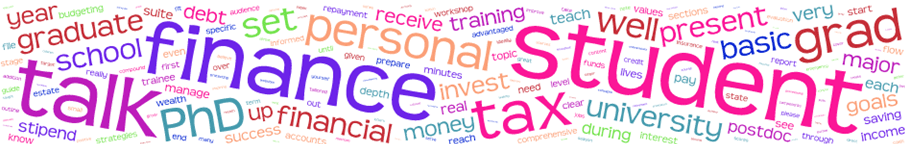
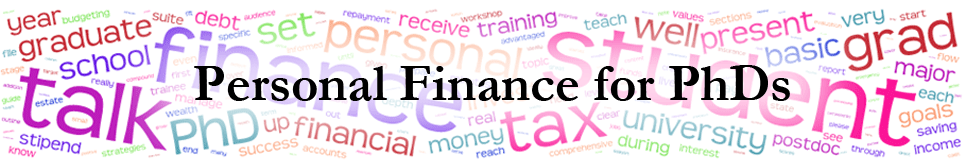
Made header stretch across entire page. Updated header. Made sidebar scroll with page. Fixed button to show sidebar and be included on the header.

diff --git a/style.css b/style.css
@@ -883,7 +883,7 @@ a:focus {
 }
 
 .secondary-toggle {
-	background-color: transparent;
+	background-color: white;
 	border: 1px solid #eaeaea;
 	border: 1px solid rgba(51, 51, 51, 0.1);
 	height: 42px;
@@ -908,7 +908,7 @@ a:focus {
 
 .secondary-toggle:hover,
 .secondary-toggle:focus {
-	background-color: transparent;
+	background-color: white;
 	border: 1px solid #c1c1c1;
 	border: 1px solid rgba(51, 51, 51, 0.3);
 	outline: 0;
@@ -3900,7 +3900,7 @@ p > video {
 		position: fixed;
 		top: 0;
 		left: 0;
-		width: 29.4118%;
+		width: 20.001%;
 		z-index: 0; /* Fixes flashing bug with scrolling on Safari */
 	}
 
@@ -3914,7 +3914,7 @@ p > video {
 		margin-right: -100%;
 		max-width: 413px;
 		position: relative;
-		width: 29.4118%;
+		width: 20.001%;
 	}
 
 	.secondary {
@@ -3931,8 +3931,8 @@ p > video {
 	.site-content {
 		display: block;
 		float: left;
-		margin-left: 29.4118%;
-		width: 70.5882%;
+		margin-left: 20.001%;
+		width: 79.999%;
 	}
 
 	body {
@@ -4180,8 +4180,8 @@ p > video {
 	}
 
 	.widget {
-		font-size: 12px;
-		font-size: 1.2rem;
+		font-size: 15px;
+		font-size: 1.5rem;
 		margin: 0 0 20%;
 		padding: 0 20%;
 	}
@@ -5748,6 +5748,7 @@ p > video {
     /*padding: 5.0000%;*/
     position:relative;
     overflow:hidden;
+    background: white;
 }
 
 .header-img{

diff --git a/js/functions.js b/js/functions.js
@@ -29,7 +29,7 @@
 			return;
 		}
 
-		button = $( '.site-branding' ).find( '.secondary-toggle' );
+		button = $( '.header' ).find( '.secondary-toggle' );
 		if ( ! button ) {
 			return;
 		}
@@ -78,7 +78,7 @@
 					$sidebar.attr( 'style', 'top: ' + topOffset + 'px;' );
 				} else if ( ! bottom && windowPos + windowHeight > sidebarHeight + $sidebar.offset().top && sidebarHeight + adminbarOffset < bodyHeight ) {
 					bottom = true;
-					$sidebar.attr( 'style', 'position: fixed; bottom: 0;' );
+					/*$sidebar.attr( 'style', 'position: fixed; bottom: 0;' );*/
 				}
 			} else if ( windowPos < lastWindowPos ) {
 				if ( bottom ) {
@@ -87,7 +87,7 @@
 					$sidebar.attr( 'style', 'top: ' + topOffset + 'px;' );
 				} else if ( ! top && windowPos + adminbarOffset < $sidebar.offset().top ) {
 					top = true;
-					$sidebar.attr( 'style', 'position: fixed;' );
+					/*$sidebar.attr( 'style', 'position: fixed;' );*/
 				}
 			} else {
 				top = bottom = false;
@@ -96,7 +96,7 @@
 			}
 		} else if ( ! top ) {
 			top = true;
-			$sidebar.attr( 'style', 'position: fixed;' );
+			/*$sidebar.attr( 'style', 'position: fixed;' );*/
 		}
 
 		lastWindowPos = windowPos;

diff --git a/header.php b/header.php
@@ -26,38 +26,22 @@
 <div id="page" class="hfeed site">
 	<a class="skip-link screen-reader-text" href="#content"><?php _e( 'Skip to content', 'twentyfifteen' ); ?></a>
 
+	<div class="header">
 
+		<a href="<?php echo get_site_url(); ?>">
+			<div class="header-img">
+				<img class="img-responsive center" src="<?php echo get_template_directory_uri(); ?>/img/header.png">
+			</div>
+		</a>
+
+		<button class="secondary-toggle"></button>
+
+		<div class="spacer" style="clear: both;"></div>
+	</div>
 
 	<div id="sidebar" class="sidebar">
-		<header id="masthead" class="site-header" role="banner">
-			<div class="site-branding">
-				<?php
-					if ( is_front_page() && is_home() ) : ?>
-						<h1 class="site-title"><a href="<?php echo esc_url( home_url( '/' ) ); ?>" rel="home"><?php bloginfo( 'name' ); ?></a></h1>
-					<?php else : ?>
-						<p class="site-title"><a href="<?php echo esc_url( home_url( '/' ) ); ?>" rel="home"><?php bloginfo( 'name' ); ?></a></p>
-					<?php endif;
-
-					$description = get_bloginfo( 'description', 'display' );
-					if ( $description || is_customize_preview() ) : ?>
-						<p class="site-description"><?php echo $description; ?></p>
-					<?php endif;
-				?>
-				<button class="secondary-toggle"><?php _e( 'Menu and widgets', 'twentyfifteen' ); ?></button>
-			</div><!-- .site-branding -->
-		</header><!-- .site-header -->
 
 		<?php get_sidebar(); ?>
 	</div><!-- .sidebar -->
 
 	<div id="content" class="site-content">
-
-		<div class="header">
-
-			<a href="<?php echo get_site_url(); ?>">
-				<div class="header-img">
-					<img class="img-responsive center" src="<?php echo get_template_directory_uri(); ?>/img/header.png">
-				</div>
-			</a>
-			<div class="spacer" style="clear: both;"></div>
-		</div>
